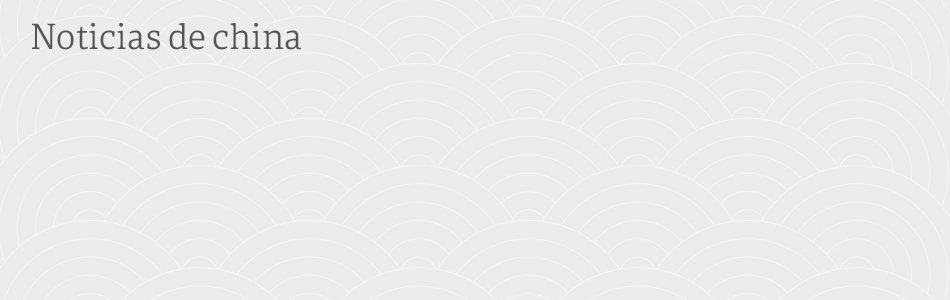
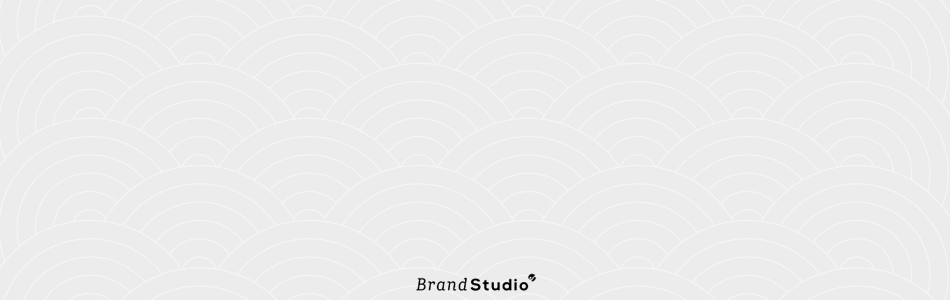
Add files via upload

Changed region(s): [[0.0305, 0.06, 0.3358, 0.18], [0.4274, 0.9, 0.58, 0.99]]

diff --git a/style.css b/style.css
@@ -7,6 +7,11 @@ font-family: "portada-regular-webfont";
 src: url("Fonts/portada-regular-webfont.woff");
 }
 
+@font-face {
+font-family: "portada-bold-webfont";
+src: url("Fonts/portada-bold-webfont.woff");
+}
+
 h1{
 font-family:"portada-regular-webfont";
 font-size:16px;
@@ -15,6 +20,30 @@ font-weight: 200;
 line-height:18px;
 margin: 0px;
 color: #ffffff;
+}
+
+.titulo{
+width: 800px;
+height: 50px;
+position: absolute;
+margin-top: 0px;
+z-index: 10;
+padding: 30px 0px 0px 30px;
+}
+
+h3{
+font-family:"portada-regular-webfont";
+font-size:35px;
+font-weight: 300;
+text-align: left;
+line-height:18px;
+margin: 0px;
+color:#555555;
+}
+
+h3 a{
+font-style: none;
+color: none;
 }
 
 .cont-titulo{

diff --git a/index.html b/index.html
@@ -16,8 +16,8 @@
 
 <!--ClickTag General-->
 <a href="javascript:void(window.open(clickTag))">
-      <div id="click" style="width: 800px; height: 60px; position: absolute; margin-top: 0px; z-index: 10;">
-</div></a>
+<div class="titulo"><h3>Noticas de China</h3></div>
+</a>
 <!-- FIN ClickTag General-->
 
 <div id="fondo" style="width: 950px; height: 300px;">

diff --git a/script_01.js b/script_01.js
@@ -1,6 +1,6 @@
 window.onload=function(){
   $('.slider').slick({
-  autoplay:true,
+  autoplay:false,
   autoplaySpeed:1500,
   arrows:true,
   prevArrow:'<button type="button" class="slick-prev"></button>',
